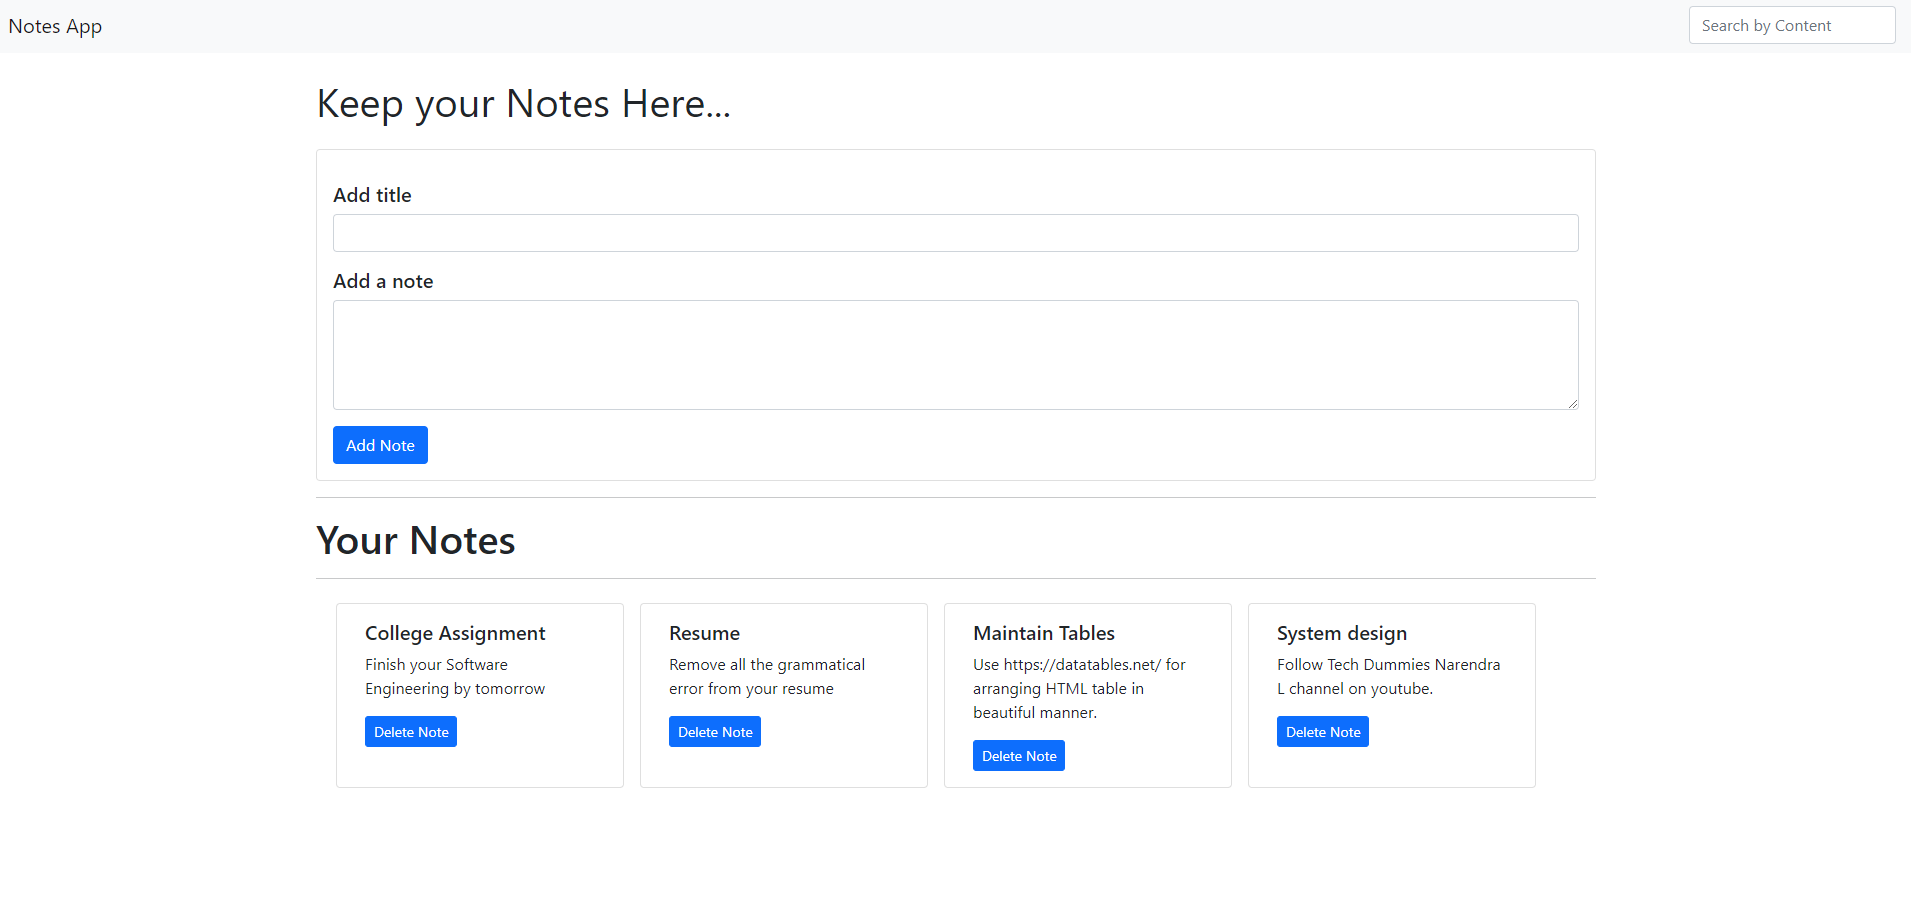
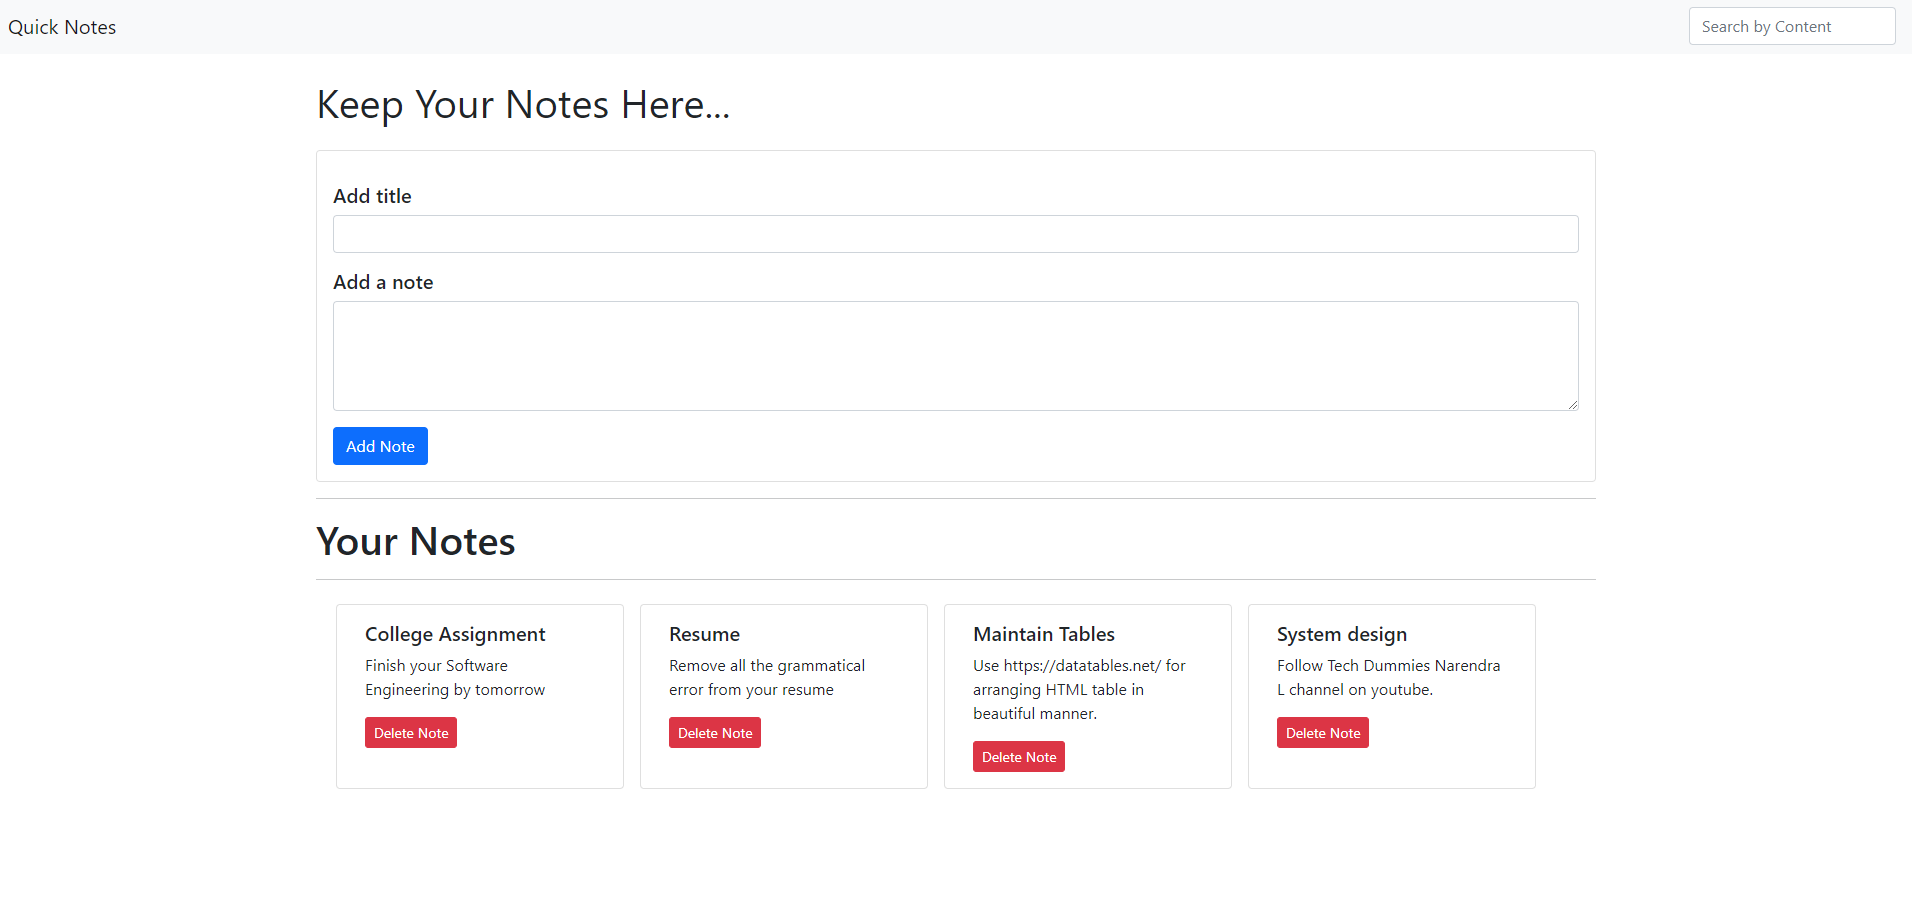
Initial commit

diff --git a/index.html b/index.html
@@ -10,17 +10,15 @@
     <link href="https://cdn.jsdelivr.net/npm/bootstrap@5.1.3/dist/css/bootstrap.min.css" rel="stylesheet"
         integrity="sha384-1BmE4kWBq78iYhFldvKuhfTAU6auU8tT94WrHftjDbrCEXSU1oBoqyl2QvZ6jIW3" crossorigin="anonymous">
 
-    <title>Notes App</title>
-    <!-- <link rel="icon" type="image/x-icon" href="/favicon.ico"> -->
+    <title>Quick Notes</title>
     <link rel="icon" type="image/png" href="/img.png" />
-    <!-- <link rel="icon" type="image/icon" href="favicon.ico" /> -->
 </head>
 
 <body>
 
     <nav class="navbar navbar-expand-lg navbar-light bg-light">
         <div class="container-fluid">
-            <a class="navbar-brand" href="#">Notes App</a>
+            <a class="navbar-brand" href="#">Quick Notes</a>
             <button class="navbar-toggler" type="button" data-bs-toggle="collapse"
                 data-bs-target="#navbarSupportedContent" aria-controls="navbarSupportedContent" aria-expanded="false"
                 aria-label="Toggle navigation">
@@ -44,7 +42,7 @@
         Input text not filled properly—check it out!
     </div>
     <div class="col-8 offset-2 my-4">
-        <h1 style="font-weight: 400;">Keep your Notes Here...</h1>
+        <h1 style="font-weight: 400;">Keep Your Notes Here...</h1>
         <div class="card mt-4">
             <div class="card-body">
                 <div class="form-group my-3">

diff --git a/app.js b/app.js
@@ -48,7 +48,7 @@ function showNotes() {
                     <div class="card-body">
                         <h5 class="card-title">${element.title}</h5>
                         <p class="card-text"> ${element.text}</p>
-                        <button id="${index}"onclick="deleteNote(this.id)" class="btn btn-primary btn-sm">Delete Note</button>
+                        <button id="${index}"onclick="deleteNote(this.id)" class="btn btn-danger btn-sm">Delete Note</button>
                     </div>
                 </div>`;
     });
